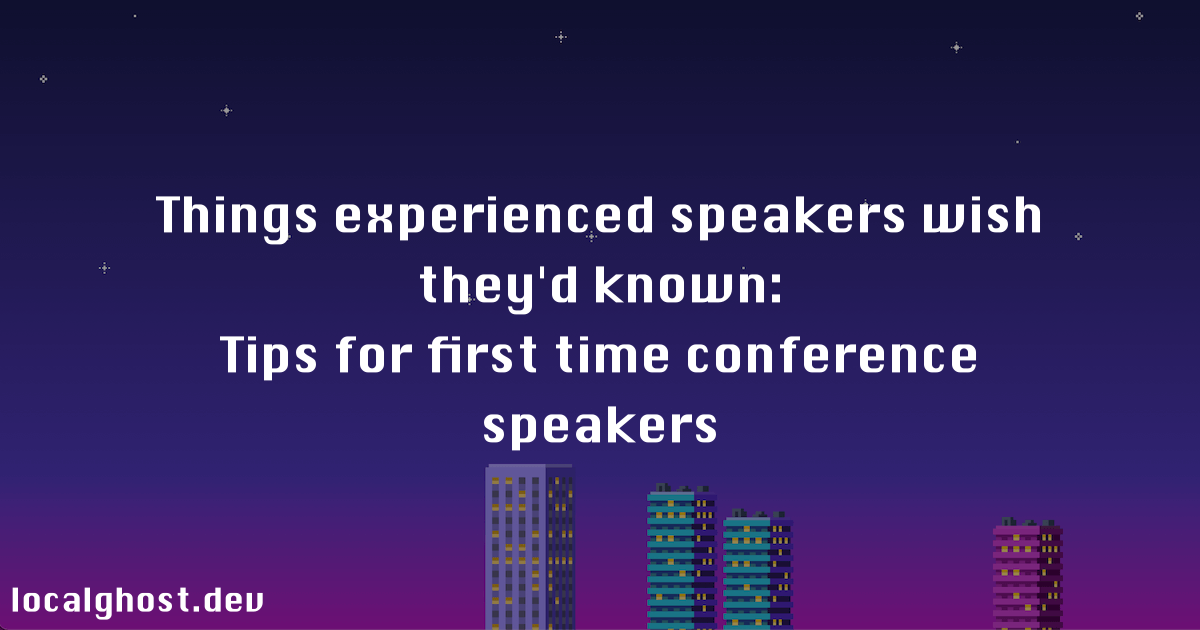
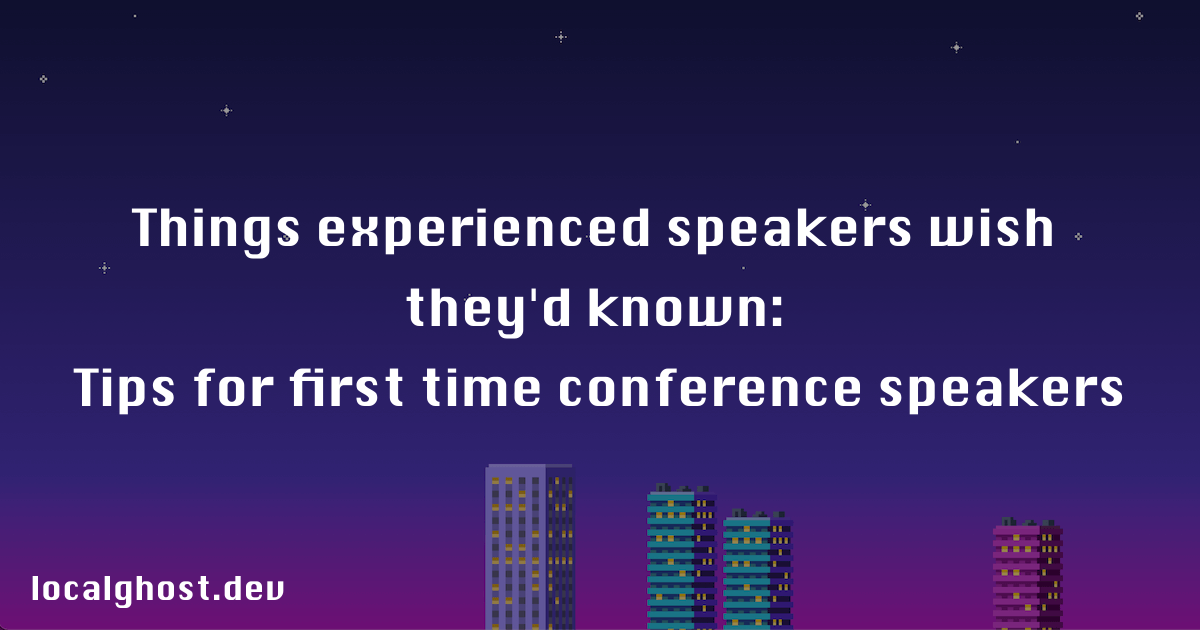
Tidy up OG images

Changed region(s): [[0.0617, 0.4222, 0.9558, 0.7238], [0.0925, 0.3016, 0.8942, 0.4222], [0.0, 0.9048, 0.2467, 0.9952]]

diff --git a/src/filters/split-lines.js b/src/filters/split-lines.js
@@ -1,21 +1,32 @@
 // https://bnijenhuis.nl/notes/automatically-generate-open-graph-images-in-eleventy/
 module.exports = function (input) {
-  const parts = input.split(" ")
-  const lines = parts.reduce(function (prev, current) {
-    if (!prev.length) {
-      return [current]
+  const parts = input.split(" ");
+
+  const lines = parts.reduce(function (acc, current, idx) {
+    if (!acc.length) {
+      return [current];
     }
 
-    let lastOne = prev[prev.length - 1]
+    const prevLine = acc[acc.length - 1];
 
-    if (lastOne.length + current.length > 40) {
-      return [...prev, current]
+    const isTooLong = prevLine.length + ` ${current}`.length > 40;
+
+    // If we're in danger of having an orphan, force the penultimate word onto a new line
+    if (isTooLong && idx === parts.length - 1 && !current.includes("-")) {
+      const newPrevLine = prevLine.split(" ");
+      const lastWord = newPrevLine.pop();
+      acc[acc.length - 1] = newPrevLine.join(" ");
+      acc.push(lastWord + " " + current);
+      return acc;
     }
 
-    prev[prev.length - 1] = lastOne + " " + current
+    if (isTooLong || prevLine.charAt(prevLine.length - 1) === ":") {
+      return [...acc, current];
+    }
 
-    return prev
-  }, [])
+    acc[acc.length - 1] = prevLine + " " + current;
 
-  return lines
-}
+    return acc;
+  }, []);
+  return lines;
+};

diff --git a/src/plugins/og-to-png.js b/src/plugins/og-to-png.js
@@ -11,10 +11,7 @@ module.exports = async function () {
   if (files.length > 0) {
     files.forEach(function (filename) {
       const outputFilename = filename.substring(0, filename.length - 4);
-      if (
-        filename.endsWith(".svg") &
-        !fs.existsSync(path.join(ogImagesDir, outputFilename))
-      ) {
+      if (filename.endsWith(".svg") & !fs.existsSync(path.join(ogImagesDir, outputFilename))) {
         const imageUrl = socialPreviewImagesDir + filename;
         Image(imageUrl, {
           formats: ["png"],

diff --git a/src/blog/recipes/brownies.md b/src/blog/recipes/brownies.md
@@ -1,11 +1,11 @@
 ---
-title: Blue Peter's Bonfire Brownies 
+title: The best chocolate brownies
 date: 2023-11-23
 source: Blue Peter
 excerptText: "I've been making this recipe since it was aired on Blue Peter in the early 00s, and I maintain it's still the best brownie recipe."
 ---
 
-I've been making this recipe since it was aired on UK children's TV institution [Blue Peter](https://en.wikipedia.org/wiki/Blue_Peter) in the early 00s, and I maintain it's still the best brownie recipe. Chewy and delicious. I recommend freezing them and eating them straight out of the freezer (I discovered this when my mum used to put them in the freezer to keep them out of the way of temptation, and I'd nick them when she wasn't looking). There's nothing bonfire-specific about it, they're chocolate brownies and I suppose the episode aired around 5th November, but they're fucking great.
+I've been making this "Bonfire Brownies" recipe since it was aired on UK children's TV institution [Blue Peter](https://en.wikipedia.org/wiki/Blue_Peter) in the early 00s, and I maintain it's still the best brownie recipe. Chewy and delicious. I recommend freezing them and eating them straight out of the freezer (I discovered this when my mum used to put them in the freezer to keep them out of the way of temptation, and I'd nick them when she wasn't looking). There's nothing bonfire-specific about it, they're chocolate brownies and I suppose the episode aired around 5th November, but they're fucking great.
 
 Look, I don't have any photos of this, but you've just got to take my word for it.
 
